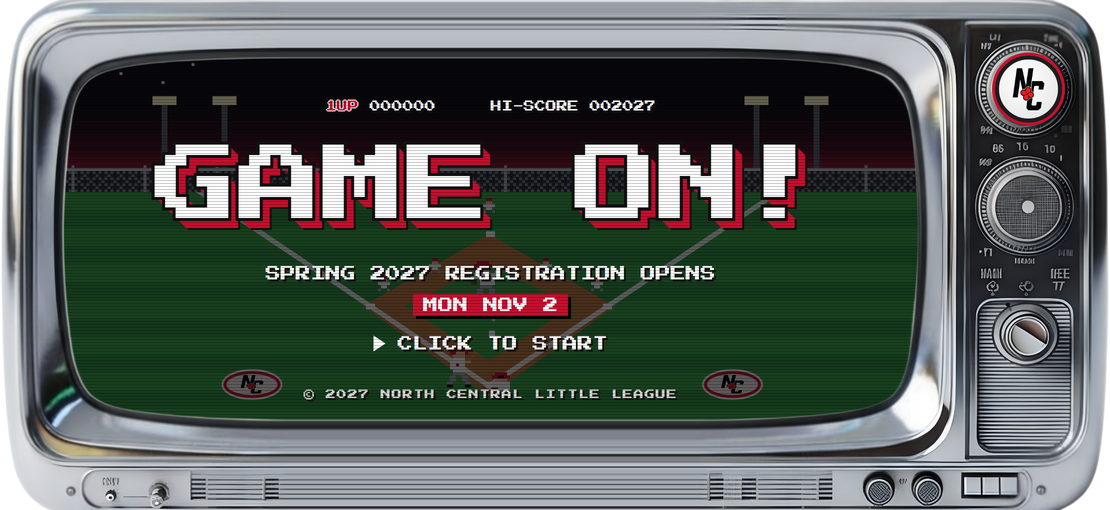
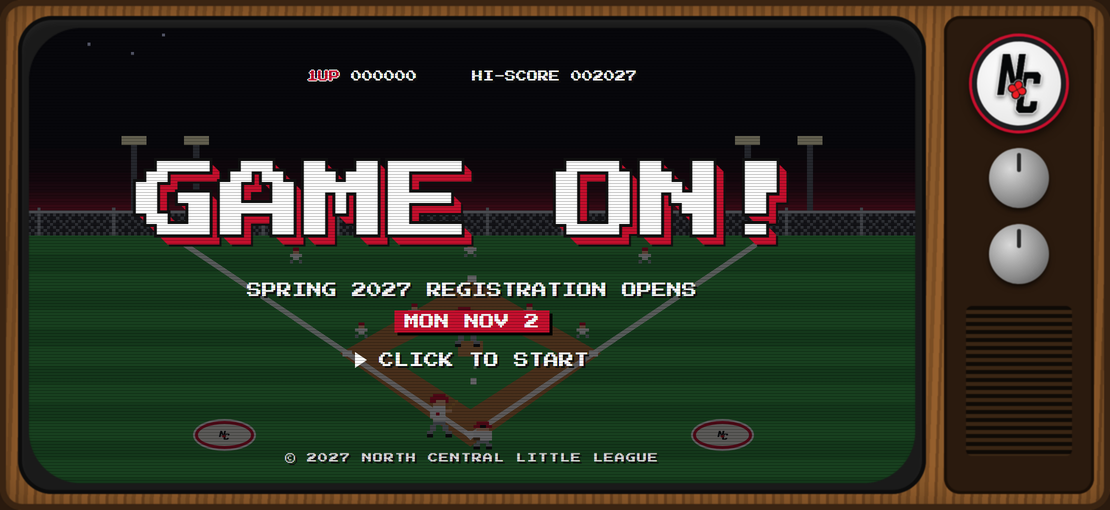
2027 spring rotator: wood TV frame

diff --git a/scripts/rotators/retro-tv/make_tv_wide.py b/scripts/rotators/retro-tv/make_tv_wide.py
@@ -1,6 +1,7 @@
 """Chrome TV frame: John's chrome TV photo (assets/chrome-tv.png), widened to the slide's exact proportions by repeating
 the plain middle of the set (dials, knob and corners untouched) with the stand and feet removed. The 8-bit game shows
 through the screen hole; the NC badge sits on the top dial. make_tv_center.py builds the slide on top of this."""
+import os
 import re
 from pathlib import Path
 
@@ -15,11 +16,17 @@ TV_X, TV_Y = 0, 0
 HOLE = (287 * K, 262 * K, (2279 + (SRC_W - 3146) - 287) * K, (1892 - 262) * K)
 DIAL = (4638 * K, 402 * K)           # centre dot of the top dial (measured on the source)
 TV_IMG = "../assets/chrome-tv.png"   # paths are relative to the html this writes (this folder)
-LOGO = "../../../images/logos/ncll_logo_1.png"
+LOGO = "../../../images/logos/3.black.on.white.and.red.cloverleaf.png"
+FRAME = os.environ.get("TV_FRAME", "chrome")   # set by build.py from the slide's "frame"
+if FRAME == "wood":                  # assets/wood-tv.png: wood cabinet with the NC badge already on it; opening measured on the image
+    HOLE = (29, 28, 886, 455)
+    TV_IMG = "../assets/wood-tv.png"
 
 _SW, _SH = HOLE[2] + 8, HOLE[3] + 8
 M.LIGHT_IN = 34                      # light towers pulled in toward the middle
 M.W, M.OX, M.OY = 287, 63, 2          # scene sits 10 game-pixels lower: room above for 1UP, less grass below home
+if FRAME == "wood":                  # taller screen: move the field down so home plate sits near the bottom line
+    M.OY = 24
 M.H = round(M.W * _SH / _SW)          # extra rows are more grass at the bottom
 SCALE = 3
 
@@ -70,7 +77,7 @@ body{{position:relative;font-family:'Press Start 2P',monospace;background:radial
   <div class="msg"><span class="y">SPRING 2027</span><br>REGISTRATION OPENS<br><span class="y">MON NOV 2</span><br><span class="cur"></span>CLICK TO START</div></div>
  <div class="scan"></div><div class="glow"></div></div>
 <img class="tv" src="{TV_IMG}" alt="">
-<div class="disc"><img src="{LOGO}" alt=""></div>
+{'' if FRAME == "wood" else f'<div class="disc"><img src="{LOGO}" alt=""></div>'}
 </body></html>"""
 
 

diff --git a/scripts/rotators/build.py b/scripts/rotators/build.py
@@ -9,6 +9,7 @@ Writes three files to scripts/rotators/out/ (git-ignored):
 Copy the transparent one to images/rotators/ when it's final, then upload it in the CMS (see README.md).
 """
 import json
+import os
 import subprocess
 import sys
 import time
@@ -45,6 +46,7 @@ def main(cfg_path):
     cfg = json.loads(Path(cfg_path).read_text(encoding="utf-8"))
     if cfg.get("template") != "retro-tv":
         sys.exit(f"unknown template {cfg.get('template')!r} (only 'retro-tv' so far)")
+    os.environ["TV_FRAME"] = cfg.get("frame", "chrome")
     sys.path.insert(0, str(HERE / "retro-tv"))
     import make_tv_center as C
 

diff --git a/scripts/rotators/README.md b/scripts/rotators/README.md
@@ -29,13 +29,14 @@ Lower sort order shows first. The CMS keeps it at 1110 x 520 and keeps the trans
 
 | Template | Look | Files |
 |---|---|---|
-| `retro-tv` | Chrome TV filling the frame; 8-bit night game (dusk sky, chain-link fence, NCLL-red players, on-deck circles with the NC logo) dimmed behind a big centred headline, a line, the date on a red bar, an action line, and a copyright line. NC badge on the top dial. | `retro-tv/`, `assets/chrome-tv.png` |
+| `retro-tv` | TV filling the frame (`"frame": "wood"` for the wood cabinet, the default is chrome); 8-bit night game (dusk sky, chain-link fence, NCLL-red players, on-deck circles with the NC logo) dimmed behind a big centred headline, a line, the date on a red bar, an action line, and a copyright line. NC badge on the top dial. | `retro-tv/`, `assets/chrome-tv.png`, `assets/wood-tv.png` |
 | chalkboard (not wired into build.py yet) | Chalkboard with chalk lettering, checklist, diamond and ice-cream doodles, NCLL badge | `chalkboard/make_chalk.py` |
 
 ### Slide settings (`retro-tv`)
 
 | Key | Where it shows | Example |
 |---|---|---|
+| `frame` | TV cabinet: `wood` or `chrome` | `wood` |
 | `score_left_red` / `score_left` / `score_right` | arcade line at the top | `1UP` / `000000` / `HI-SCORE 002027` |
 | `headline` | big centre text | `GAME ON!` |
 | `line` | line under it | `SPRING 2027 REGISTRATION OPENS` |
